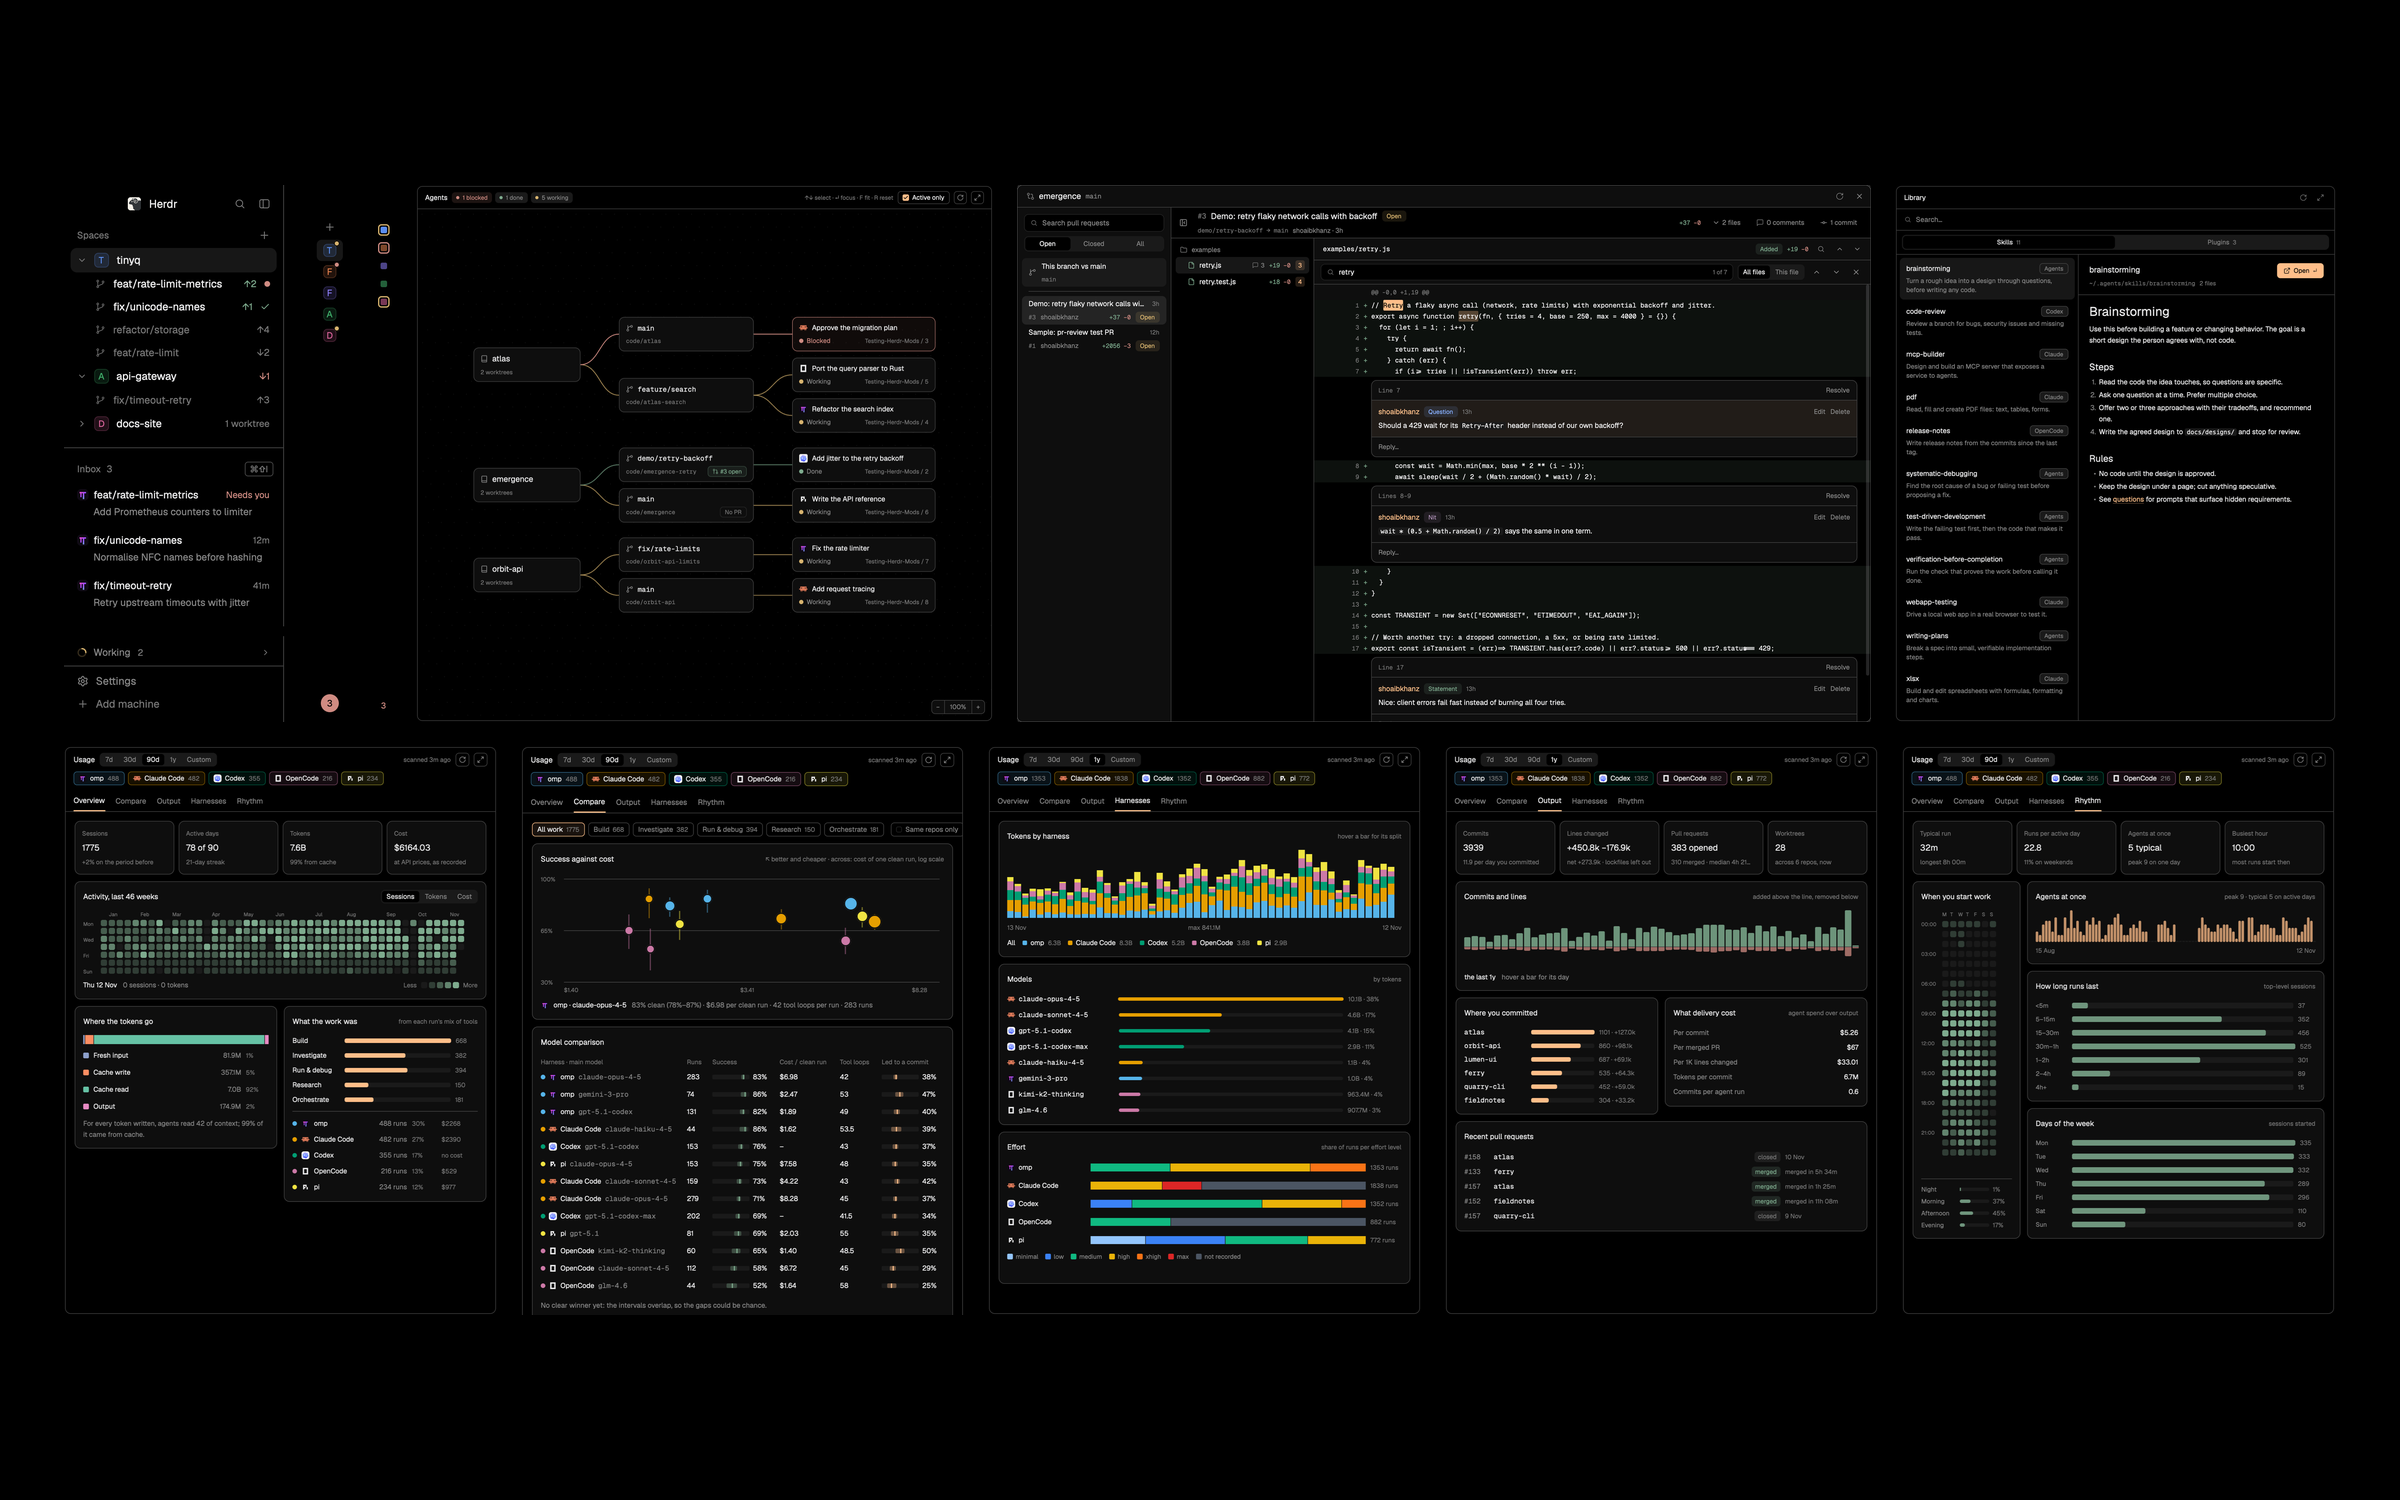
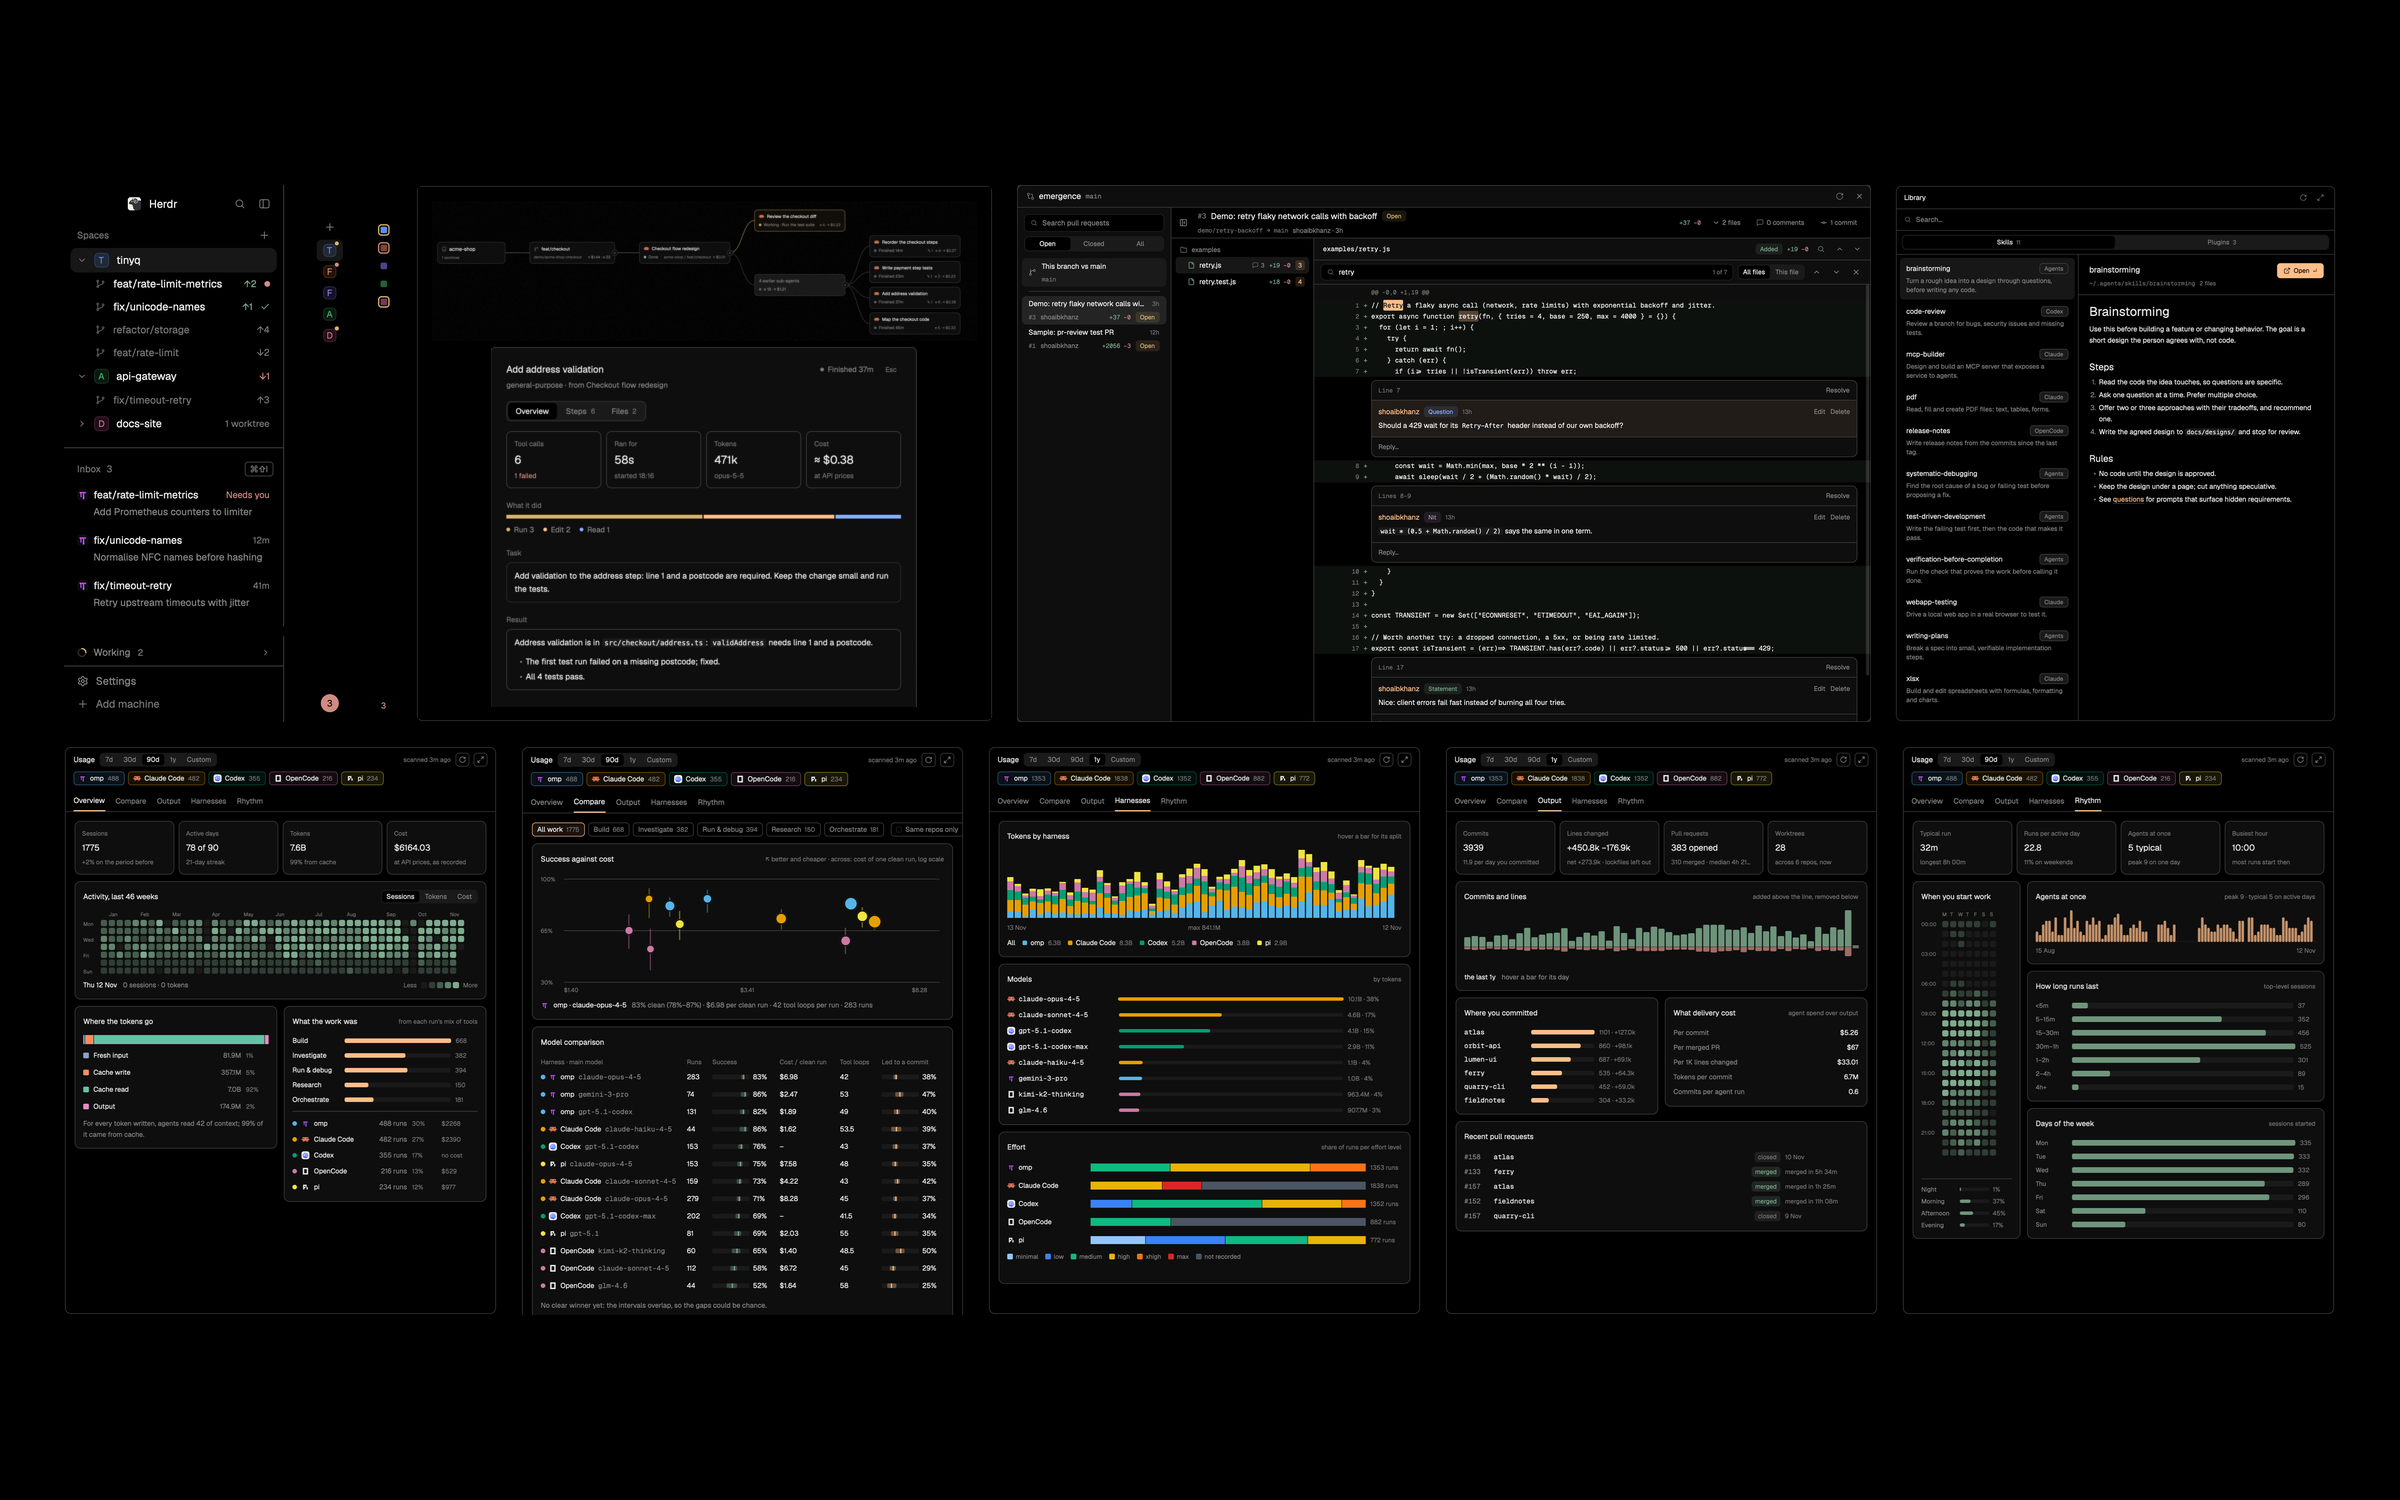
docs: README covers sub-agent details, metrics, history and Settings; new Agents, details and settings screenshots, preview updated
Screenshots use a made-up acme-shop repo and invented sub-agents (removed after). The Agents section covers calls,
cost, folding, Graph | List and the details dialog; Settings gets its own section; the sidebar notes the unmerged-
commits line and bulk delete; keys and What it runs list the new pieces.

Changed region(s): [[0.1875, 0.1227, 0.4062, 0.46], [0.1875, 0.1227, 0.3125, 0.184], [0.1875, 0.3067, 0.2188, 0.3373]]

diff --git a/README.md b/README.md
@@ -29,9 +29,22 @@ Screenshots use made-up data.
 
 ![Agents panel](docs/images/agents.png)
 
-Every agent as repo → worktree (with its PR) → agent → sub-agents. Blocked in red, working in amber, done in green;
-**Active | All** at the top right (← / →): it opens on Active while an agent works or needs you, else on All. On All, a dot by Active's count says something has started working or needs you. Click an agent
-to jump to it, a PR to review it.
+Every agent as repo → worktree (with its PR) → agent → sub-agents, Claude Code's and omp's in-process ones included.
+Blocked in red, working in amber, done in green; **Active | All** at the top right (A): it opens on Active while an
+agent works or needs you, else on All. Every card shows its tool calls and cost (⚒ 22 · ≈ $1.44; ≈ is an estimate at
+API prices on a subscription), a worktree adds up everything under it, and ✎ counts the files a sub-agent edited.
+Finished sub-agents fold into "4 earlier sub-agents"; ← / → or the chevrons fold and unfold any card. **Graph | List**
+switches the view. Click an agent to jump to it, a PR to review it.
+
+![A sub-agent's details: overview and steps](docs/images/subagent-details.png)
+
+Click a sub-agent (or ↵) for **what it did**:
+- **Overview**: tool calls (and how many failed), how long it ran, tokens and model, cost, the kinds of work it did, its task and its result.
+- **Steps**: every tool call on a timeline with how long it took, failures in red. Runs of the same kind fold, and Space opens one to show its command and the start of its output.
+- **Files**: what it edited (uncommitted marked) and what it read.
+
+It refreshes every 5 s while the sub-agent runs; **Go to agent** (↵) jumps to the agent that started it. Transcripts
+are read when you open them and never stored; Claude Code keeps them about 30 days.
 
 ### PRs (⌘⇧R)
 
@@ -99,8 +112,18 @@ session it has read.
   still runs (amber past an hour); a half-strength icon means probably that agent (started in the background, matched
   by folder); a globe means your network can reach it. Click (or ↵) for its card: address, agent, command, uptime, CPU
   and memory, with Open, Go to agent and Stop (asks first, and checks the process still holds the port).
+  Deleting a clean worktree whose branch has commits nowhere else (not pushed or merged) says so in amber; the branch
+  keeps them. ⇧← ticks several worktrees to delete at once.
 - **Working N**, the last row: opens the graph on what's working (everything at 0).
 - **Sizes**: open, rail, dots (⌘B, ⌘⌥B).
+
+### Settings (⌘⌥,)
+
+<img src="docs/images/settings.png" alt="Emergence settings" width="400">
+
+Every switch the mods keep, in one dialog, saved as you change it: how far back Agents lists finished sub-agents
+(1 day, 1 week or 30 days), the sidebar's fold, side-by-side diffs, the Library's window size, and which harnesses a
+side chat (⌘⌥/) opens for.
 
 ### Status bar
 
@@ -124,6 +147,7 @@ or menu to Spaces, the Inbox or the panel you opened it from; a panel's window o
 |---|---|---|
 | ⌘E | everywhere | Jump |
 | ⌘⇧/ | layout | every Emergence key (⌘/ is Herdr's) |
+| ⌘⌥, | layout | Emergence settings |
 | ⌘⇧A · ⌘⇧R · ⌘⇧K · ⌘⇧U | layout | Agents · PRs · Library · Usage |
 | ⌘⇧I | layout | keyboard into the Inbox |
 | ⌘⇧O | layout | worktrees of this repo |
@@ -132,6 +156,8 @@ or menu to Spaces, the Inbox or the panel you opened it from; a panel's window o
 | ← → | Spaces | repo: fold · worktree: delete / archive |
 | ctrl-j · ctrl-k · ctrl-l | sidebar | down (Spaces → Inbox → Ports → Side chats) · up · back to the terminal (also Esc) |
 | ↵ · ← | Ports | the port's card · stop it (asks first) |
+| ↑ ↓ · ← → · A · ↵ | Agents | select · fold / unfold · Active or All · open (a sub-agent: its details) |
+| ← → · ↑ ↓ · Space · ↵ | sub-agent details | tabs · move · open a step · go to its agent |
 | ↑ ↓ · ← → · ↵ · Esc | panels | list · tabs · open · step back, then back to the terminal |
 | ⌘F · [ ] | PRs | find · previous / next commit |
 | ctrl-h/j/k/l | terminals | between panes ([optional](#optional-ctrlhjkl-between-panes)) |
@@ -140,7 +166,10 @@ Not ⌘⇧J (Homerow's scroll mode); not ⌘⇧B (Blueprint).
 
 ## What it runs
 
-- **Agents**: `git rev-parse` per agent folder; `gh pr list` (or `glab mr list`) per repo each minute.
+- **Agents**: `git rev-parse` per agent folder; `gh pr list` (or `glab mr list`) per repo each minute;
+  `mods/agent-graph/subagents.py` reads Claude Code's and omp's session logs for sub-agents, tool calls and cost
+  (file paths, short labels and counts only, cached in Herdr's `data/agent-graph/`), and a sub-agent's whole
+  transcript only while its details are open (never cached).
 - **PRs**: `git` and `gh` (or `glab`, by the repo's remote) in the focused repo; comments go through that forge's API.
 - **Library**: lists the skill folders above and `~/.claude/plugins/installed_plugins.json`.
 - **Usage**: `mods/usage/scan.py` reads session logs (counts, models, timestamps, and the `git commit` calls agents
@@ -195,7 +224,7 @@ curl -fsSL https://raw.githubusercontent.com/shoaibkhanz/herdr-nav-plus/main/edi
 | `mods/jump` | ⌘E |
 | `mods/emergence-keys` | ⌘⇧/ |
 | `mods/emergence-settings` | ⌘⌥, |
-| `mods/confirm-safe`, `row-menu` | Cancel-first confirm; right-click menu |
+| `mods/confirm-safe`, `row-menu`, `worktree-sweep` | Cancel-first confirm; right-click menu; bulk worktree delete |
 | `mods/nav-keys` | ctrl-h/j/k/l |
 | `layouts/emergence.json` | the layout |
 | `RECIPE.md` | how to rebuild it |
@@ -204,7 +233,8 @@ curl -fsSL https://raw.githubusercontent.com/shoaibkhanz/herdr-nav-plus/main/edi
 
 ```sh
 herdr-app check ~/.config/herdr-app/mods/<name>   # load and render once
-(cd mods/<name> && bun test)                      # Usage also: python3 mods/usage/test_scan.py
+(cd mods && bun test)                              # every mod; also python3 mods/usage/test_scan.py,
+                                                  # python3 mods/agent-graph/test_subagents.py
 bash install.test.sh                              # the installer and updater, in throwaway homes
 ```
 
